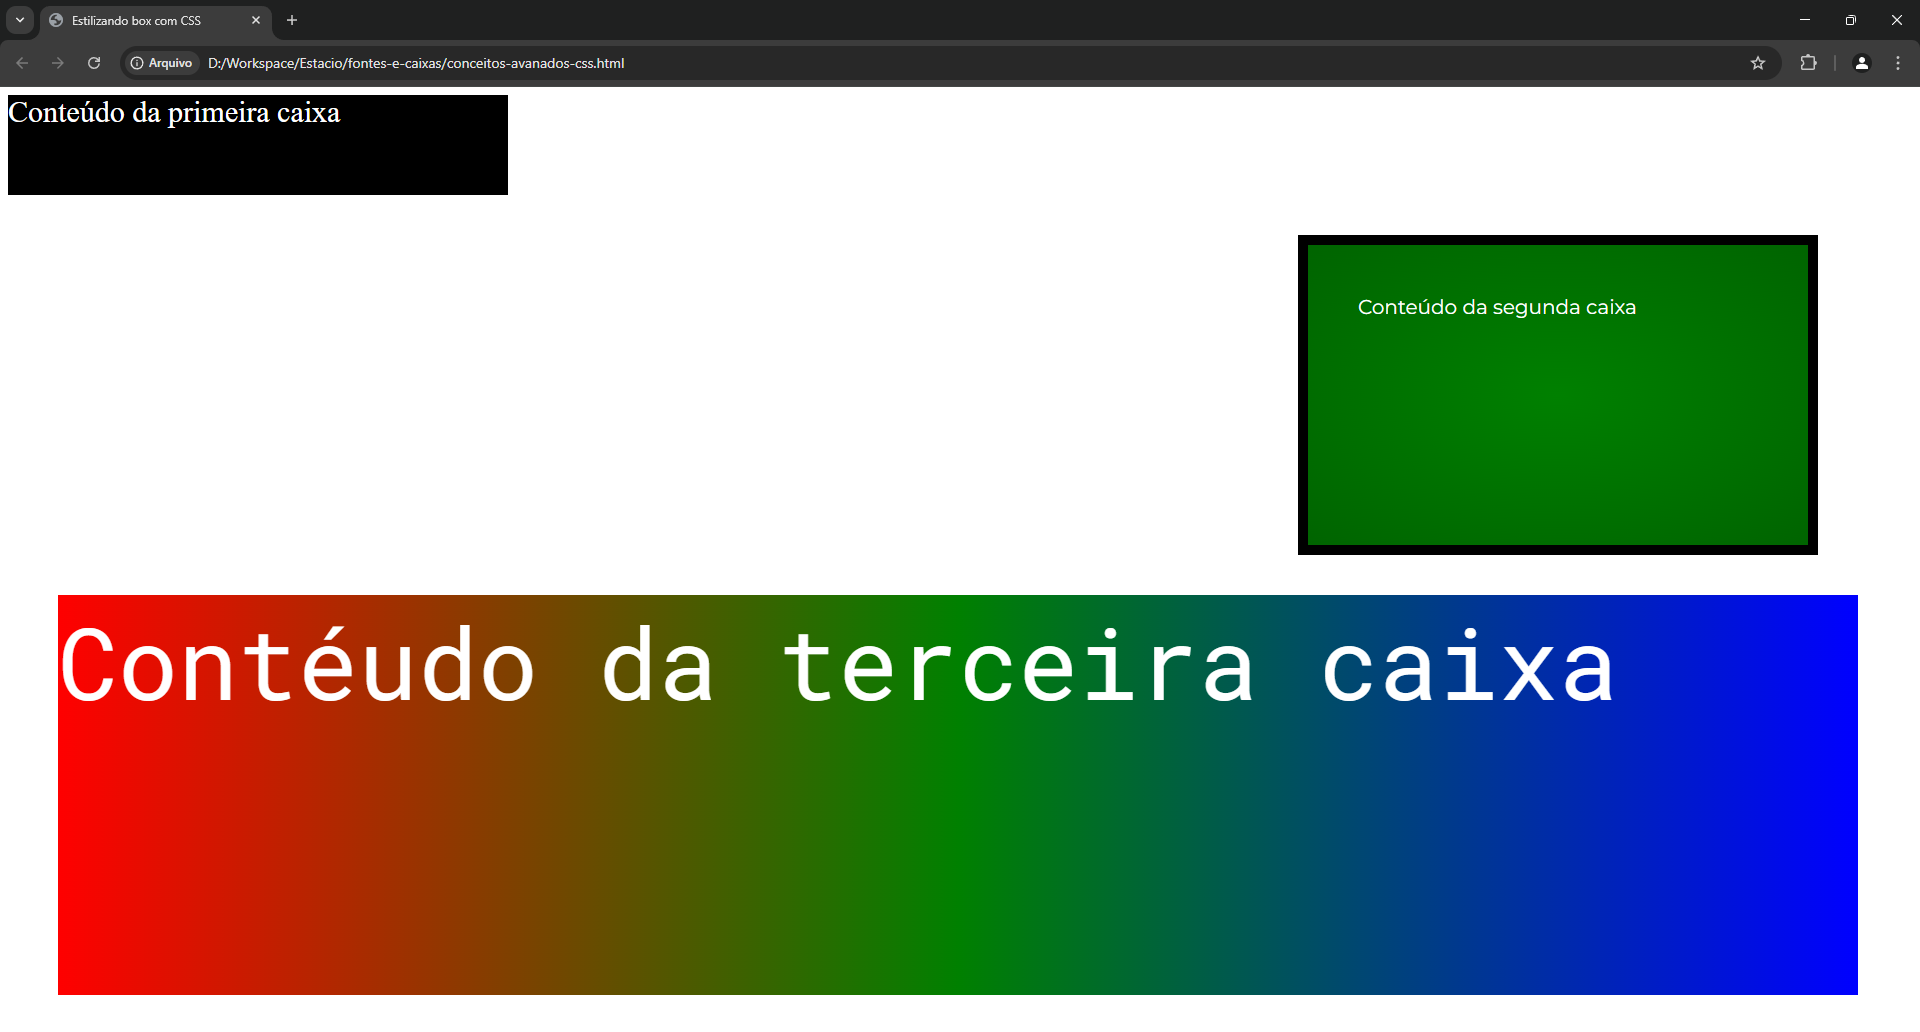
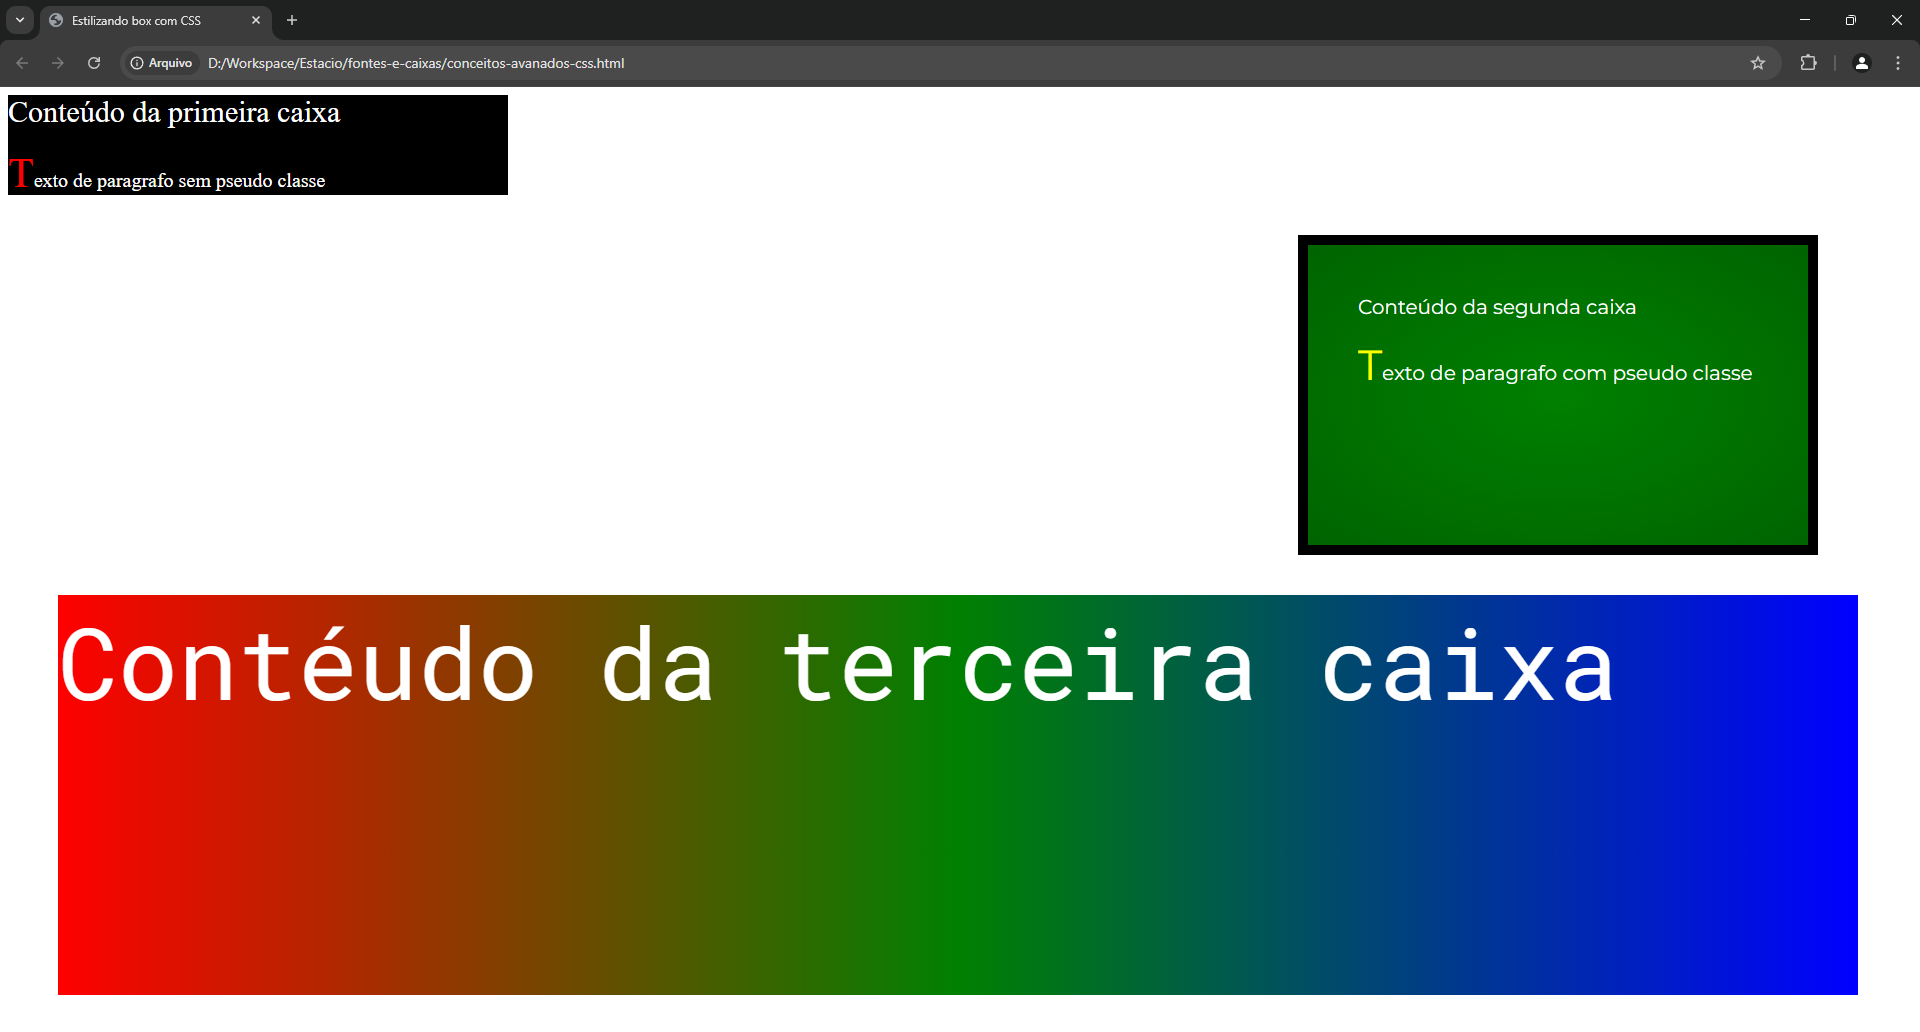
commit

Changed region(s): [[0.0625, 0.031, 0.9375, 0.093], [0.7188, 0.3411, 0.9062, 0.3721], [0.0, 0.155, 0.1562, 0.186]]

diff --git a/conceitos-avanados-css.html b/conceitos-avanados-css.html
@@ -4,11 +4,15 @@
         <meta charset="UTF-8">
         <meta name="viewport" content="width-device-width">
         <title> Estilizando box com CSS</title>
-        <link rel="stylesheet" href="style.css"
+        <link rel="stylesheet" href="style.css">
     </head>
     <body>
-        <div id="primeira_box"> Conteúdo da primeira caixa</div>
-        <div id="segunda_box"> Conteúdo da segunda caixa</div>
+        <div id="primeira_box"> Conteúdo da primeira caixa
+            <p id="sem_pseudo_classe"> <span class="primeira_letra_maiuscula">T</span>exto de paragrafo sem pseudo classe</p>
+        </div>
+        <div id="segunda_box"> Conteúdo da segunda caixa
+            <p id="com_pseudo_classe"> Texto de paragrafo com pseudo classe</p>
+        </div>
         <div id="terceira_box"> Contéudo da terceira caixa</div>
     </body>
 </html>

diff --git a/style.css b/style.css
@@ -5,6 +5,15 @@
     background-color: black; 
     color: white;}
 
+p#sem_pseudo_classe{
+    font-size: 20px;
+    color: white;
+}
+    p#sem_pseudo_classe span.primeira_letra_maiuscula{
+        font-size: 42px;
+        color: red;
+    }
+
 #segunda_box{
     font-family: montserrat;
     font-size: 20px; 
@@ -19,6 +28,19 @@
     padding: 50px;
     border: 10px solid black;
 }
+
+
+p#com_pseudo_classe{
+    font-family: montserrat;
+    font-size: 20px;
+    color: white;
+}
+
+    p#com_pseudo_classe::first-letter{
+        font-size: 42px;
+        color: yellow;
+    }
+
 
 #terceira_box{
     font-family: robotomono;
